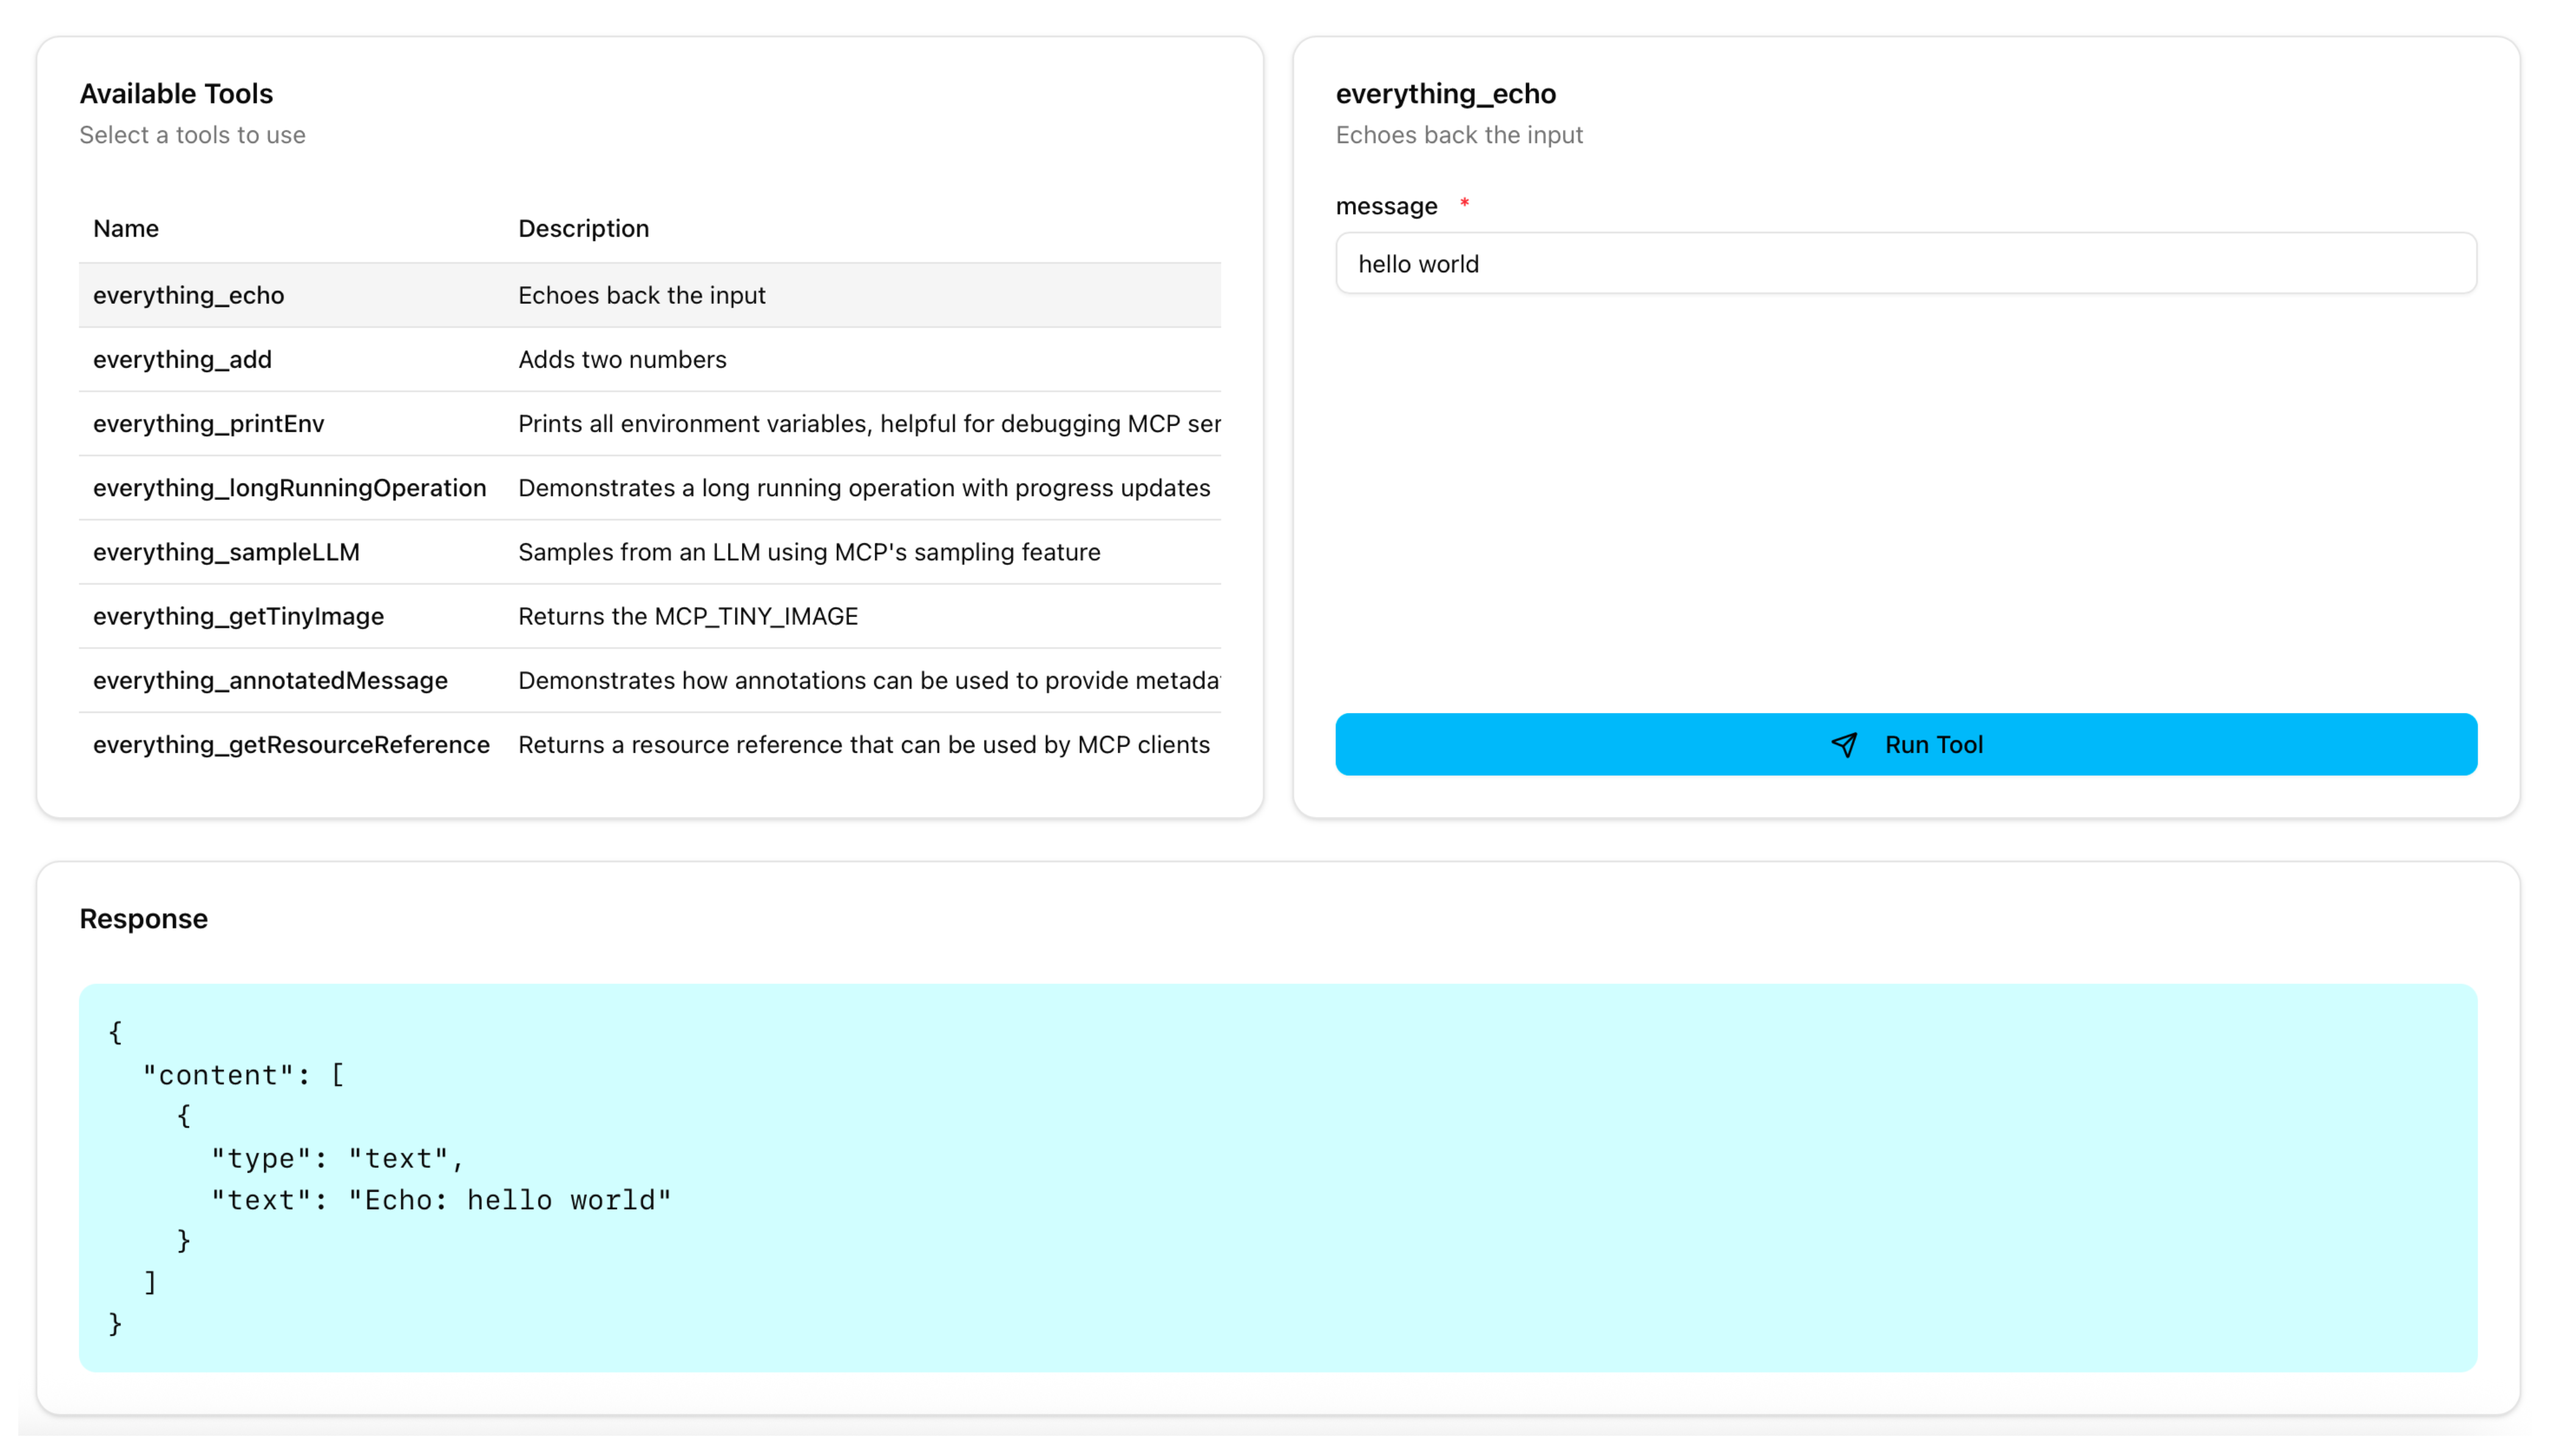
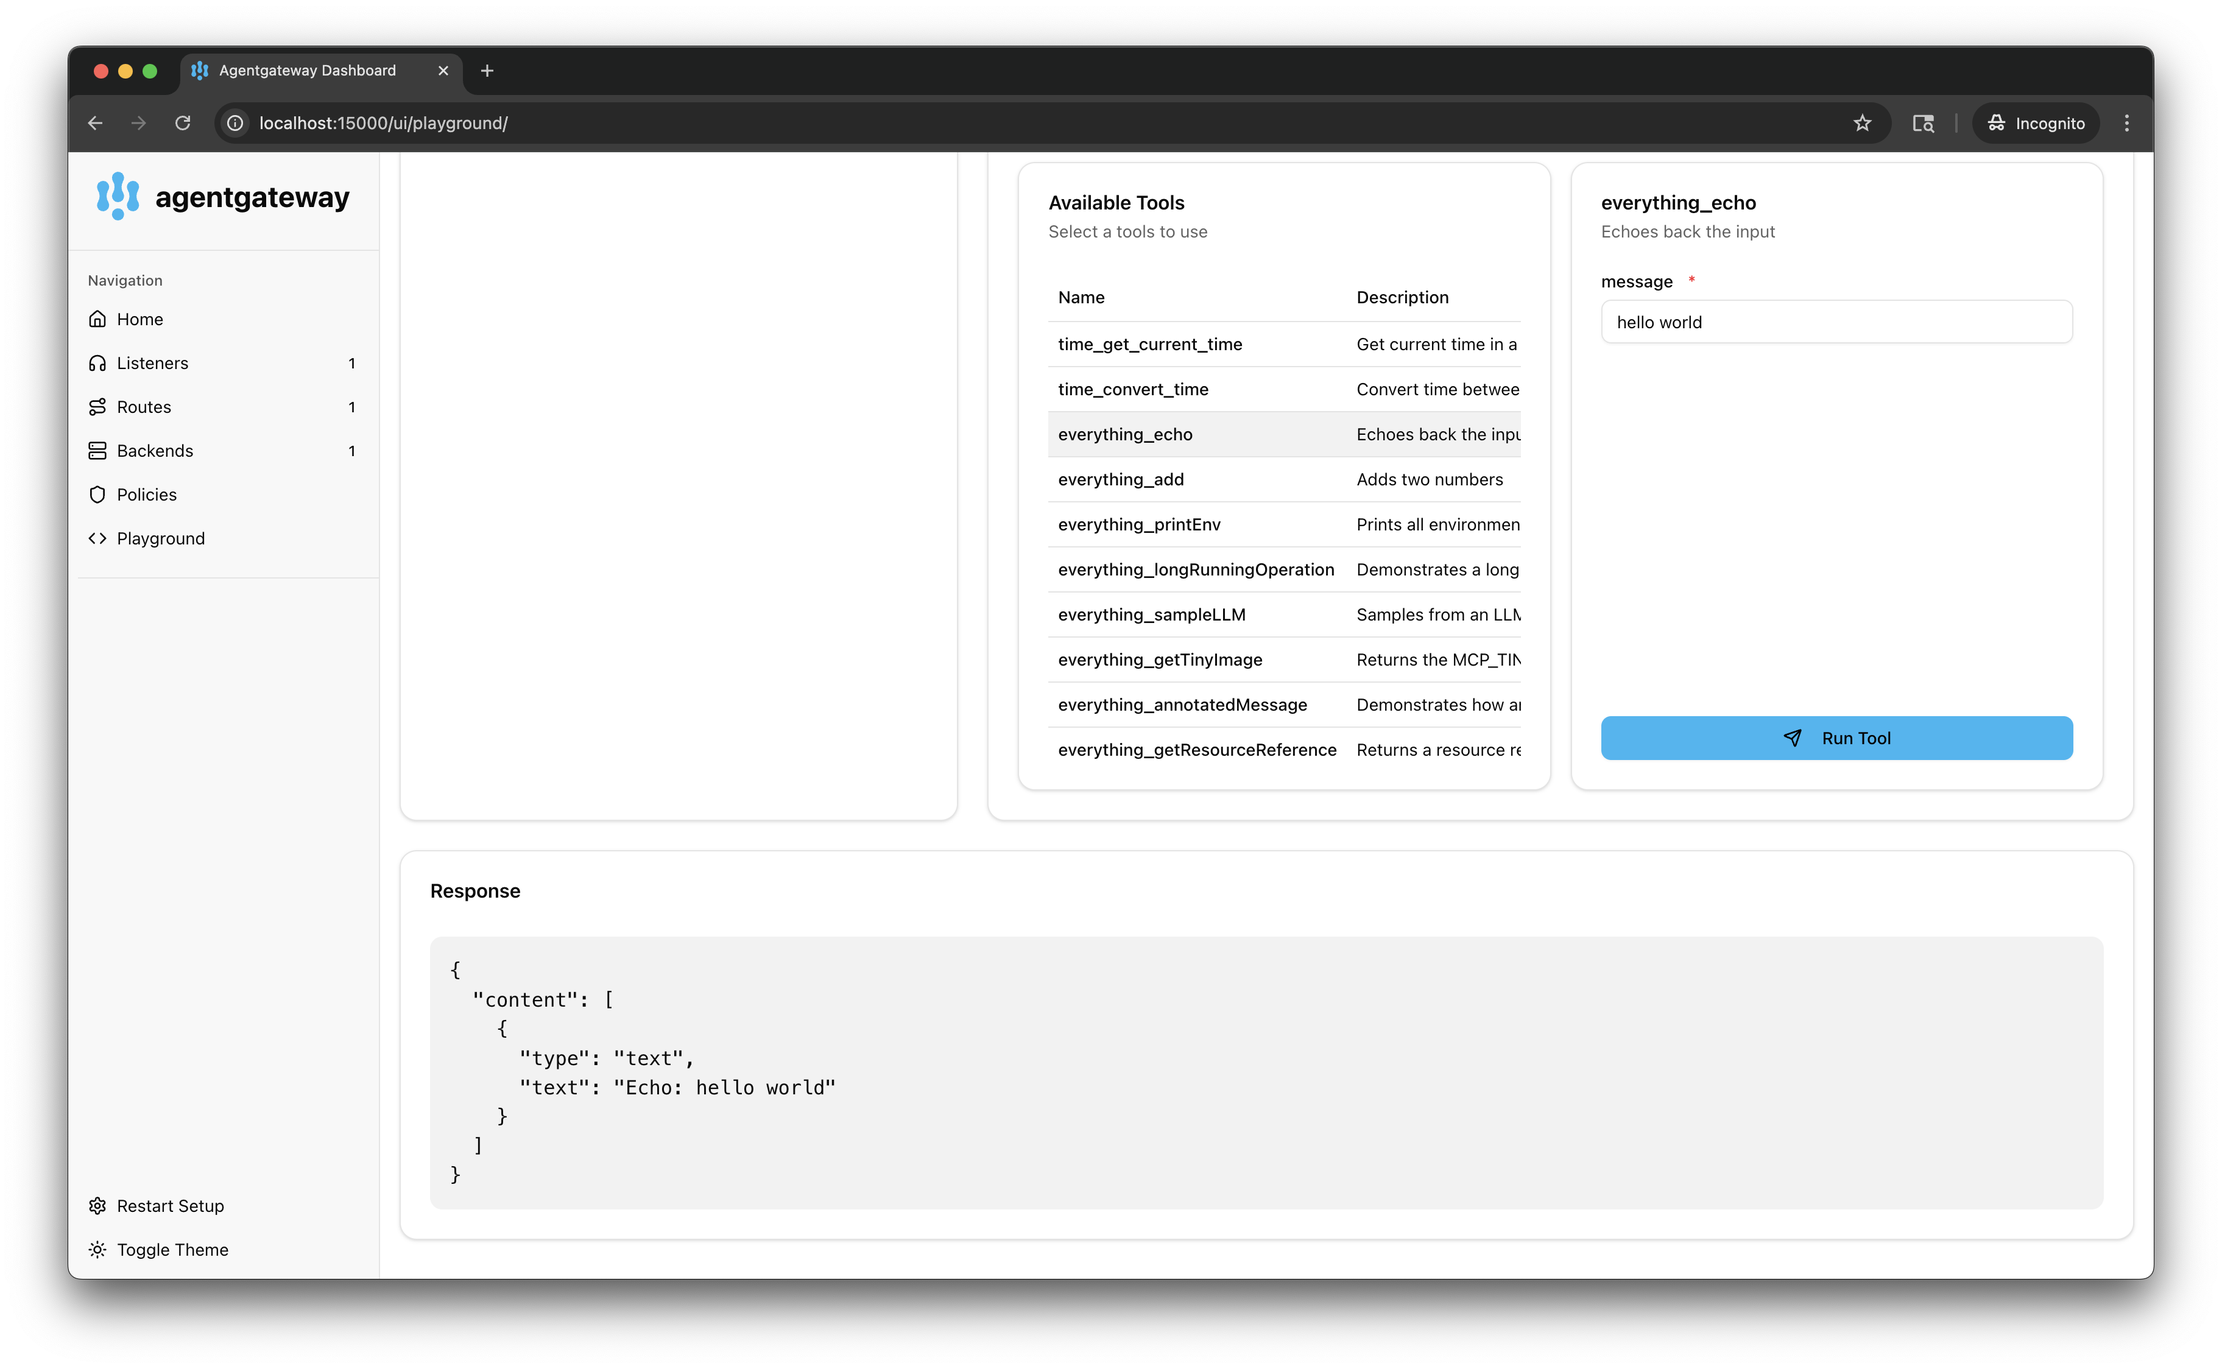
update multiplex screenshots and cors in a few places

diff --git a/content/docs/backends/multiplex.md b/content/docs/backends/multiplex.md
@@ -24,19 +24,8 @@ Federate tools of multiple MCP servers on the agentgateway by using MCP multiple
 
    * **Listener**: An HTTP listener is configured and bound on port 3000. It includes a basic route that matches all traffic to an MCP backend.
    * **Backend**: The backend defines two targets: `time` and `everything`. Note that the target names cannot include underscores (`_`). These targets are exposed together a single MCP server to clients.
-   
-3. Run the agentgateway. 
-   ```sh
-   agentgateway -f config.yaml
-   ```
 
-## Verify access to tools
-
-1. Open the [agentgateway UI](http://localhost:15000/ui/) to view your listener and target configuration.
-
-2. Connect to the MCP test server with the agentgateway UI playground. 
-
-   1. In your `config.yaml` file, add the following CORS policy to allow requests from the agentgateway UI playground. The config automatically reloads when you save the file.
+3. Optional: To use the agentgateway UI playground later, add the following CORS policy to your `config.yaml` file. The config automatically reloads when you save the file.
       
       ```yaml
       binds:
@@ -50,18 +39,30 @@ Federate tools of multiple MCP servers on the agentgateway by using MCP multiple
                 allowHeaders:
                   - mcp-protocol-version
                   - content-type
+            backends:
       ...
       ```
 
-   2. From the navigation menu, click [**Playground**](http://localhost:15000/ui/playground/).
+4. Run the agentgateway. 
+   ```sh
+   agentgateway -f config.yaml
+   ```
+
+## Verify access to tools
+
+1. Open the [agentgateway UI](http://localhost:15000/ui/) to view your listener and target configuration.
+
+2. Connect to the MCP test server with the agentgateway UI playground. 
+
+   1. From the navigation menu, click [**Playground**](http://localhost:15000/ui/playground/).
       
       {{< reuse-image src="img/agentgateway-ui-playground.png" >}}
 
-   3. In the **Testing** card, review your **Connection** details and click **Connect**. The agentgateway UI connects to the targets that you configured and retrieves the tools that are exposed on the targets. 
+   2. In the **Testing** card, review your **Connection** details and click **Connect**. The agentgateway UI connects to the targets that you configured and retrieves the tools that are exposed on the targets. 
    
-   4. Verify that you see a list of **Available Tools**. Note that the tools are listed twice, one time with the prefix `time` and one time with the prefix `everything`. You now have a federated view of all the tools that are exposed on all defined targets.
+   3. Verify that you see a list of **Available Tools**. Note that the tools are listed twice, one time with the prefix `time` and one time with the prefix `everything`. You now have a federated view of all the tools that are exposed on all defined targets.
    
-      {{< reuse-image src="img/ui-playground-tools.png" >}}
+      {{< reuse-image src="img/ui-playground-multi-tools.png" >}}
 
 3. Verify access to tools from both targets. 
    1. From the **Available Tools** list, select the `everything_echo` tool. 
@@ -69,6 +70,6 @@ Federate tools of multiple MCP servers on the agentgateway by using MCP multiple
    3. Verify that you see your message echoed in the **Response** card. 
    
       {{< reuse-image src="img/agentgateway-ui-tool-echo-hello.png" >}}
-   4. Repeat the steps with the `everything_else` tool with a different message, such as `hello everything else`. 
+   4. Repeat the steps with the `time_get_current_time` tool with your timezone, such as `America/New_York`. 
    
-      {{< reuse-image src="img/agentgateway-ui-tool-echo-else.png" >}}
+      {{< reuse-image src="img/ui-tool-time-current.png" >}}

diff --git a/content/docs/backends/openapi.md b/content/docs/backends/openapi.md
@@ -28,18 +28,7 @@ Expose an OpenAPI server on the agentgateway.
 
     {{% github-yaml url="https://raw.githubusercontent.com/agentgateway/agentgateway/refs/heads/main/examples/openapi/config.yaml" %}}
 
-3. Run the agentgateway. 
-   ```sh
-   agentgateway -f config.yaml
-   ```
-
-## Verify access to the Petstore APIs
-
-1. Open the [agentgateway UI](http://localhost:15000/ui/) to view your listener and backend configuration.
-
-2. Connect to the OpenAPI server with the agentgateway UI playground. 
-   
-   1. In your `config.yaml` file, add the following CORS policy to allow requests from the agentgateway UI playground. The config automatically reloads when you save the file.
+3. Optional: To use the agentgateway UI playground later, add the following CORS policy to your `config.yaml` file. The config automatically reloads when you save the file.
       
       ```yaml
       binds:
@@ -53,16 +42,28 @@ Expose an OpenAPI server on the agentgateway.
                 allowHeaders:
                   - mcp-protocol-version
                   - content-type
+            backends:
       ...
       ```
 
-   2. From the navigation menu, click [**Playground**](http://localhost:15000/ui/playground/).
+4. Run the agentgateway. 
+   ```sh
+   agentgateway -f config.yaml
+   ```
+
+## Verify access to the Petstore APIs
+
+1. Open the [agentgateway UI](http://localhost:15000/ui/) to view your listener and backend configuration.
+
+2. Connect to the OpenAPI server with the agentgateway UI playground. 
+
+   1. From the navigation menu, click [**Playground**](http://localhost:15000/ui/playground/).
       
       {{< reuse-image src="img/agentgateway-ui-playground.png" >}}
 
-   3. In the **Testing** card, review your **Connection** details and click **Connect**. The agentgateway UI connects to the target that you configured and retrieves the APIs that are exposed on the target.
+   2. In the **Testing** card, review your **Connection** details and click **Connect**. The agentgateway UI connects to the target that you configured and retrieves the APIs that are exposed on the target.
    
-   4. Verify that you see the Petstore APIs from the OpenAPI spec as a list of **Available Tools** 
+   3. Verify that you see the Petstore APIs from the OpenAPI spec as a list of **Available Tools** 
    
       {{< reuse-image src="img/agentgateway-ui-tools-openapi.png" >}}
 
